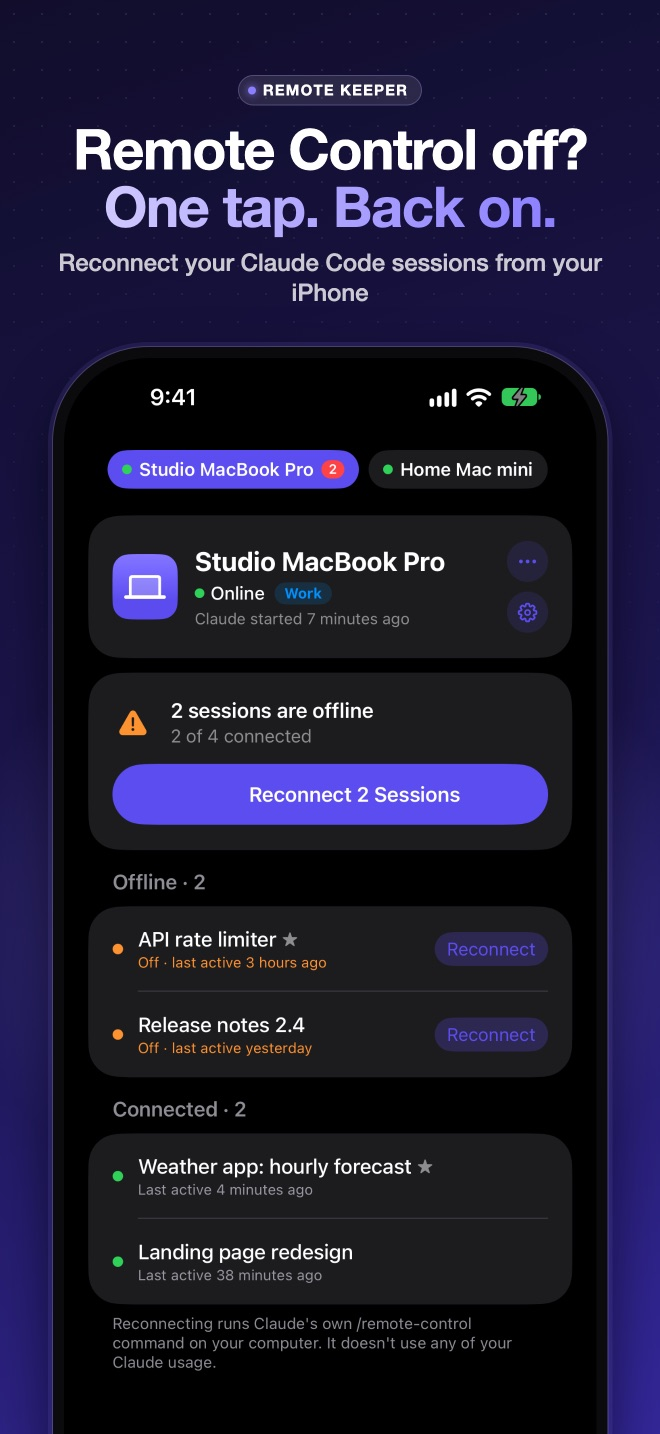
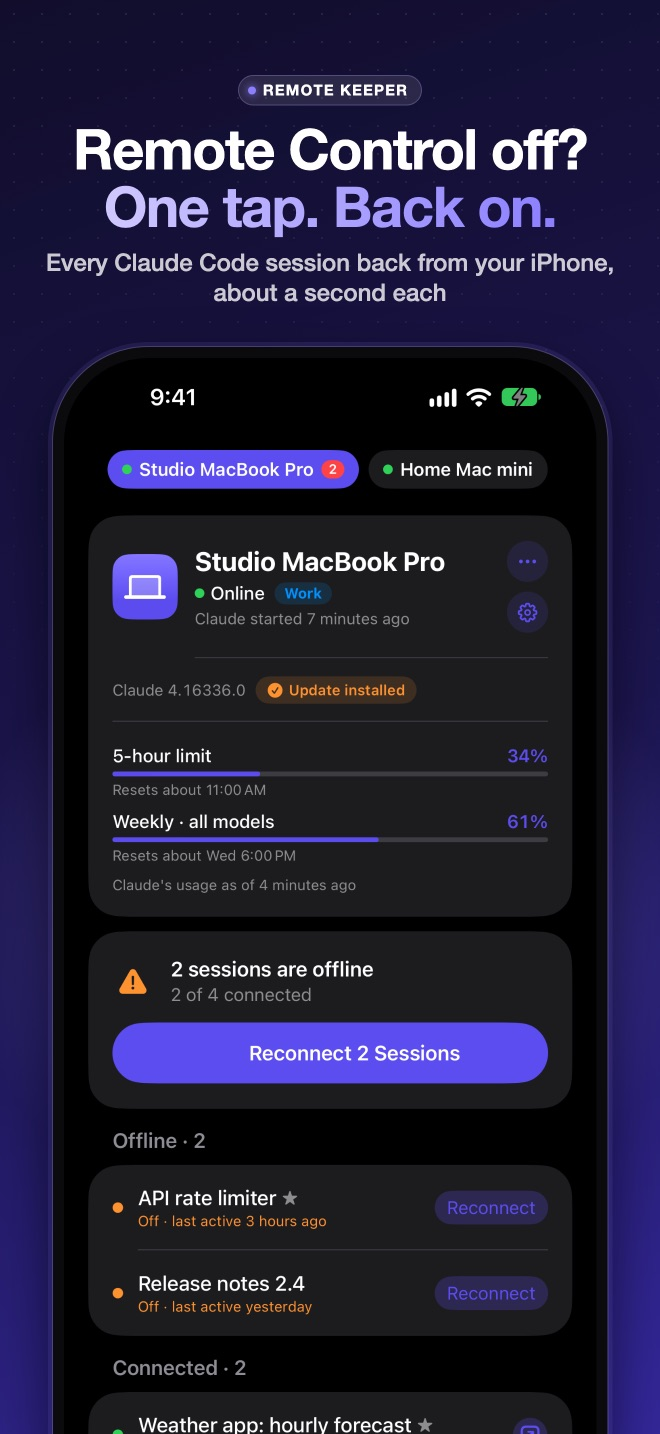
README: iPhone app 1.3 screenshots

Changed region(s): [[0.1212, 0.4296, 0.8788, 1.0], [0.0606, 0.1534, 0.697, 0.2148], [0.7273, 0.1534, 0.8485, 0.2148]]

diff --git a/README.md b/README.md
@@ -63,16 +63,20 @@ When you tap **Reconnect** on your phone, Remote Keeper opens that session in th
 The native iPhone app is [free on the App Store](https://apps.apple.com/us/app/remote-keeper-for-claude-code/id6829386828): no session limit, a **Reconnect** button right in the notification, one tap to jump into any session in the Claude app, your Claude usage with reset times, Claude updates you install on your terms, Home Screen and Lock Screen widgets, Siri and Shortcuts, Face ID lock, new sessions that show up on their own, and your computers synced with iCloud. It works with the same Mac app.
 
 <p align="center">
-  <img src="docs/screenshots/iphone/01-reconnect.jpg" alt="iPhone app: offline sessions with one Reconnect button" width="200">
-  <img src="docs/screenshots/iphone/02-new.jpg" alt="iPhone app: new sessions show up, with one tap to add them" width="200">
-  <img src="docs/screenshots/iphone/03-alert.jpg" alt="iPhone app: Reconnect right from the alert" width="200">
-  <img src="docs/screenshots/iphone/04-connected.jpg" alt="iPhone app: every session back online" width="200">
+  <img src="docs/screenshots/iphone/01-reconnect.jpg" alt="iPhone app: offline sessions with one Reconnect button" width="160">
+  <img src="docs/screenshots/iphone/02-usage.jpg" alt="iPhone app: your Claude usage with reset times" width="160">
+  <img src="docs/screenshots/iphone/03-jump.jpg" alt="iPhone app: jump into any session in the Claude app" width="160">
+  <img src="docs/screenshots/iphone/04-updates.jpg" alt="iPhone app: Claude updates on your terms" width="160">
+  <img src="docs/screenshots/iphone/05-new.jpg" alt="iPhone app: new sessions show up, with one tap to add them" width="160">
 </p>
 <p align="center">
-  <img src="docs/screenshots/iphone/05-choose.jpg" alt="iPhone app: choose any sessions on every Mac" width="200">
-  <img src="docs/screenshots/iphone/06-widgets.jpg" alt="iPhone app: widgets and Siri" width="200">
-  <img src="docs/screenshots/iphone/07-private.jpg" alt="iPhone app: no account, locked with Face ID" width="200">
+  <img src="docs/screenshots/iphone/06-alert.jpg" alt="iPhone app: Reconnect right from the alert" width="160">
+  <img src="docs/screenshots/iphone/07-reorder.jpg" alt="iPhone app: put your sessions in order" width="160">
+  <img src="docs/screenshots/iphone/08-choose.jpg" alt="iPhone app: choose any sessions on every Mac" width="160">
+  <img src="docs/screenshots/iphone/09-widgets.jpg" alt="iPhone app: widgets and Siri" width="160">
+  <img src="docs/screenshots/iphone/10-private.jpg" alt="iPhone app: no account, locked with Face ID" width="160">
 </p>
+
 ## Install
 
 1. **[Download Remote Keeper for Mac](https://github.com/mannyd209/remote-keeper/releases/latest/download/Remote-Keeper.dmg)**, open the DMG and drag **Remote Keeper** to **Applications**. Open it; it lives in your menu bar.
